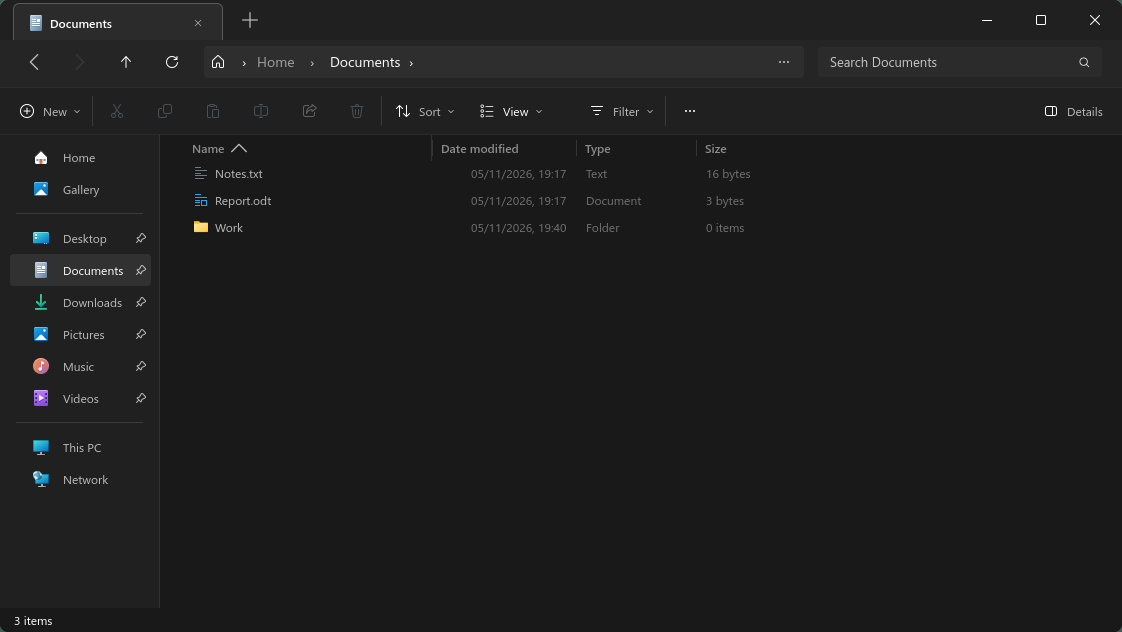
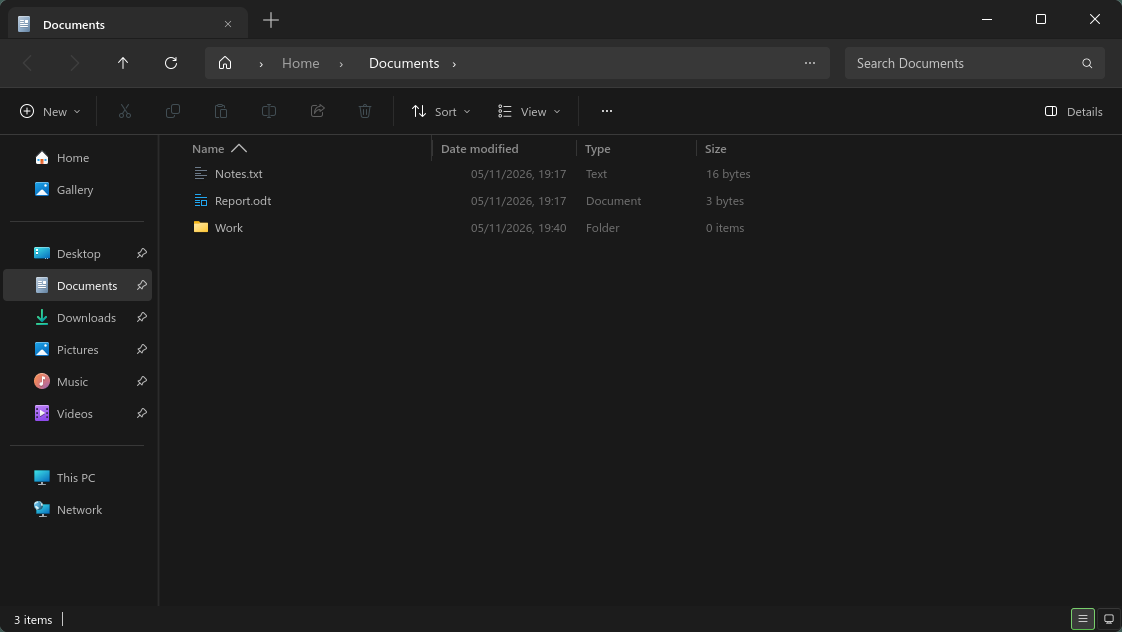
Explorer pixel pass vs Windows 11 25H2: title bar 38px, 240px tabs, #2c2c2c nav row with #383838 address/search, #191919 command bar/sidebar, splitter, sidebar rows/separators, status bar with view toggles; Filter only on Home; grey commands on special pages

diff --git a/desktop/skel/.config/gtk-4.0/gtk.css b/desktop/skel/.config/gtk-4.0/gtk.css
@@ -370,7 +370,7 @@ window.win11-explorer, window.win11-explorer label { font-family: "Segoe UI Vari
 .win11-explorer .fenestra-section-header:checked { background: transparent; }
 .win11-explorer .fenestra-page .fenestra-section-title { font-size: 14px; font-weight: 600; }
 .win11-explorer .fenestra-quick-grid { margin: 2px 0 0 80px; padding: 0; }
-.win11-explorer .fenestra-quick-grid > flowboxchild { padding: 0; min-width: 284px; max-width: 284px; border-radius: 4px; }
+.win11-explorer .fenestra-quick-grid > flowboxchild { padding: 0; min-width: 284px; border-radius: 4px; }
 .win11-explorer .fenestra-quick-grid > flowboxchild:hover { background: #2d2d2d; }
 .win11-explorer .fenestra-quick-grid > flowboxchild:selected { background: #383838; }
 .win11-explorer .fenestra-quick-tile { min-height: 60px; padding: 0 12px; }
@@ -460,6 +460,49 @@ popover.fenestra-winmenu separator.fenestra-winmenu-sep { min-height: 1px; backg
 .win11-explorer .fenestra-infopane-facts label { font-size: 12px; color: #ffffff; }
 .win11-explorer .fenestra-infopane-facts label.fenestra-infopane-key { color: #c5c5c5; }
 .win11-explorer .fenestra-infopane-message, .win11-explorer .fenestra-infopane-text { font-size: 12px; color: #c5c5c5; }
+/* Pixel pass vs Windows 11 25H2 (100%, dark): measured from ex-documents/explorer-2/ex-thispc. */
+.win11-explorer .win11-titlebar { min-height: 38px; padding-left: 3px; }
+.win11-explorer .win11-titlebar windowcontrols > button { min-height: 30px; }
+.win11-explorer .win11-tabs tab, .win11-explorer .win11-tabs tab:hover { border: 0; box-shadow: none; border-radius: 8px 8px 0 0; background-color: transparent; min-height: 31px; margin-top: 7px; padding: 0 6px 0 4px; }
+.win11-explorer .win11-tabs tab box, .win11-explorer .win11-tabs .tab-title { min-height: 0; padding-top: 0; padding-bottom: 0; margin-top: 0; margin-bottom: 0; }
+.win11-explorer .win11-tabs, .win11-explorer .win11-tabs tabbox { min-height: 0; padding-top: 0; padding-bottom: 0; }
+.win11-explorer .win11-tabs tab:hover { background-color: #2d2d2d; }
+.win11-explorer .win11-tabs tab:selected, .win11-explorer .win11-tabs tab:checked { background-color: #2c2c2c; border: 0; }
+.win11-explorer .win11-titlebar .win11-new-tab { margin: 2px 8px 0 4px; }
+.win11-explorer .win11-navigation { min-height: 47px; padding: 2px 5px 2px 1px; background: #2c2c2c; border-top: 1px solid #1d1d1d; border-bottom: 1px solid #3a3a3a; box-shadow: none; }
+.win11-explorer .win11-navigation > button, .win11-explorer .win11-navigation .history-controls button, .win11-explorer .win11-navigation box.start button { margin: 0 2px 0 0; }
+.win11-explorer .fenestra-crumbs, .win11-explorer .win11-navigation box.linked.fenestra-crumbs, .win11-explorer .win11-navigation .win11-search { min-height: 32px; background: #383838; background-image: none; border-radius: 4px; }
+.win11-explorer #NautilusPathBar { background-color: #383838; border-radius: 4px; }
+.win11-explorer #NautilusPathBar > scrolledwindow undershoot.left, .win11-explorer #NautilusPathBar > scrolledwindow undershoot.right { background: none; border: 0; }
+.win11-explorer .fenestra-crumbs scrolledwindow, .win11-explorer .fenestra-crumbs viewport, .win11-explorer .fenestra-crumbs button, .win11-explorer .fenestra-crumbs menubutton > button { background: transparent; box-shadow: none; }
+.win11-explorer .win11-navigation .win11-search { margin-left: 9px; padding: 0 12px; }
+.win11-explorer .win11-commandbar { background: #191919; border-bottom: 1px solid #3a3a3a; }
+.win11-explorer .sidebar-pane, .win11-explorer placessidebar, .win11-explorer .navigation-sidebar, .win11-explorer placessidebar list { background: #191919; }
+.win11-explorer .navigation-sidebar { border-right: 0; padding-left: 0; padding-right: 0; }
+.win11-explorer .sidebar-pane { min-width: 160px; }
+.win11-explorer placessidebar { border-right: 1px solid #202020; }
+.win11-explorer placessidebar > scrolledwindow { border-right: 1px solid #2b2b2b; }
+.win11-explorer placessidebar .navigation-sidebar { border-right: 1px solid #202020; }
+.win11-explorer placessidebar row, .win11-explorer .navigation-sidebar row { margin: 0 5px 0 3px; padding-left: 24px; }
+.win11-explorer placessidebar row:selected, .win11-explorer .navigation-sidebar row:selected { background: #333333; }
+.win11-explorer placessidebar row:hover, .win11-explorer .navigation-sidebar row:hover { background: #2d2d2d; }
+.win11-explorer placessidebar row:selected:hover, .win11-explorer .navigation-sidebar row:selected:hover { background: #3d3d3d; }
+.win11-explorer placessidebar row image, .win11-explorer .navigation-sidebar row image { margin-right: 0; }
+.win11-explorer .navigation-sidebar row image.sidebarrow-icon { -gtk-icon-size: 16px; min-width: 16px; padding: 0; margin: 0 1px 0 1px; }
+.win11-explorer .navigation-sidebar separator.fenestra-sidebar-sep { margin: 16px 13px 15px 10px; background: #383838; }
+.win11-explorer label.win11-status, .win11-explorer .fenestra-statusbar { background: #1c1c1c; }
+.win11-explorer .fenestra-statusbar separator { min-width: 1px; margin: 6px 0; background: #c5c5c5; }
+.win11-explorer .fenestra-statusbar button { min-width: 22px; min-height: 20px; padding: 0; margin: 2px 1px; border-radius: 3px; background: transparent; box-shadow: none; }
+.win11-explorer .fenestra-statusbar button:checked { background: #3a3a3a; }
+.win11-explorer .win11-commandbar separator.win11-cmd-separator { margin: 8px 4px; background: #2c2c2c; }
+.win11-explorer .fenestra-crumbs .fenestra-crumb-sep { margin: 0 10px; }
+.win11-explorer .fenestra-crumbs .fenestra-crumb-lead { margin: 0 12px 0 20px; }
+.win11-explorer .fenestra-crumbs button { padding-left: 12px; }
+.win11-explorer .fenestra-statusbar { padding-left: 0; }
+.win11-explorer .fenestra-statusbar label.win11-status { padding-right: 9px; }
+.win11-explorer .fenestra-group-header { margin-top: 4px; }
+.win11-explorer .fenestra-drives > flowboxchild { padding-left: 11px; }
+.win11-explorer .win11-tabs tab .tab-title { margin-left: 5px; }
 /* Light mode: the white Fluent glyphs used on these pages are inverted like the command bar's. */
 @media (prefers-color-scheme: light) {
   .win11-explorer .fenestra-section-header image, .win11-explorer .fenestra-section-chevron image,
@@ -566,6 +609,20 @@ window.background.csd headerbar.header-bar.titlebar windowcontrols button.titleb
   .win11-explorer .fenestra-infopane-facts label { color: #1a1a1a; }
   .win11-explorer .fenestra-infopane-facts label.fenestra-infopane-key { color: #5f5f5f; }
   .win11-explorer .fenestra-infopane-message, .win11-explorer .fenestra-infopane-text { color: #5f5f5f; }
+  .win11-explorer .win11-tabs tab:hover { background-color: #f0f0f0; }
+  .win11-explorer .win11-navigation { border-bottom: 1px solid #e5e5e5; }
+  .win11-explorer .fenestra-crumbs, .win11-explorer .win11-navigation box.linked.fenestra-crumbs, .win11-explorer .win11-navigation .win11-search { background: #e5e5e5; }
+  .win11-explorer #NautilusPathBar { background-color: #e5e5e5; }
+  .win11-explorer .win11-commandbar { background: #ffffff; border-bottom: 1px solid #e5e5e5; }
+  .win11-explorer .sidebar-pane, .win11-explorer placessidebar, .win11-explorer .navigation-sidebar, .win11-explorer placessidebar list { background: #ffffff; }
+  .win11-explorer placessidebar { border-right: 1px solid #e5e5e5; }
+  .win11-explorer placessidebar > scrolledwindow { border-right: 1px solid #e5e5e5; }
+  .win11-explorer placessidebar .navigation-sidebar { border-right: 1px solid #e5e5e5; }
+  .win11-explorer placessidebar row:selected, .win11-explorer .navigation-sidebar row:selected { background: #e5e5e5; }
+  .win11-explorer placessidebar row:hover, .win11-explorer .navigation-sidebar row:hover { background: #f0f0f0; }
+  .win11-explorer .navigation-sidebar separator.fenestra-sidebar-sep { background: #e5e5e5; }
+  .win11-explorer .fenestra-statusbar separator { background: #5f5f5f; }
+  .win11-explorer .fenestra-statusbar button:checked { background: #e5e5e5; }
   .win11-explorer .win11-commandbar image, .win11-explorer .win11-navigation image, .win11-explorer image.fenestra-pin, .win11-explorer .win11-cmd-chevron { -gtk-icon-filter: invert(0.9); }
 }
 /* ---- end Fenestra light mode ---- */

diff --git a/desktop/nautilus/python/fenestra_views.py b/desktop/nautilus/python/fenestra_views.py
@@ -62,7 +62,7 @@ class FenestraViews:
         window.connect('notify::active-slot',lambda *_:self.queue())
         window.connect('destroy',self.destroy)
         if self.compact:window.add_css_class('win11-compact')
-        self._width=0
+        self._width=0;self._tick_n=0
         self.menus=CommandMenus(self)
         window.add_tick_callback(self._tick)
         self.queue()
@@ -71,15 +71,30 @@ class FenestraViews:
         if self.window is None:return False
         width=window.get_width()
         if width and width!=self._width:
-            self._width=width;self._responsive(width)
+            self._width=width;self._tick_n=0;self._responsive(width)
+        elif width and self._tick_n<20:
+            # The address bar request depends on its own x; settle it over a few frames.
+            self._tick_n+=1;self._responsive(width)
         return True
 
     def _responsive(self,width):
+        # Address bar takes all the width left of the search box (Windows), not a centred title.
+        # GtkCenterBox only gives the title its natural width, so request the width
+        # Windows gives the address bar (window - nav buttons - search - gaps). The
+        # request trails the window width, so the window can still be made narrower.
+        path=next((w for w in walk(self.window) if kind(w)=='NautilusPathBar'),None)
+        stack=path.get_parent() if path else None
+        if stack is not None:
+            search=max(150,min(269,int((width-560)*0.48)))
+            ok,b=stack.compute_bounds(self.window)
+            left=int(b.get_x()) if ok and b.get_x()>0 else 205
+            want=max(120,width-left-search-6-17)
+            if stack.get_size_request()[0]!=want:stack.set_size_request(want,-1)
         """Explorer shrinks the search box and folds command-bar buttons into "See more"
         instead of letting the window's minimum width grow past the screen."""
         for w in walk(self.window):
             if w.has_css_class('win11-search'):
-                w.set_size_request(max(150,min(260,int((width-560)*0.45))),-1)
+                w.set_size_request(max(150,min(269,int((width-560)*0.48))),-1)
                 break
         bar=next((a for a in walk(self.window) if a.has_css_class('win11-commandbar')),None)
         if not bar:return
@@ -93,7 +108,7 @@ class FenestraViews:
         if seps:seps[0].set_visible(not collapse)
         for c in children:
             if isinstance(c,Gtk.Actionable) and c.get_action_name()=='slot.search-visible':
-                c.set_visible(width>=700 and self.special not in ('computer','gallery'))
+                c.set_visible(width>=700 and self.special=='home')
             if isinstance(c,Gtk.Actionable) and c.get_action_name()=='view.current-directory-properties':
                 for lab in walk(c):
                     if isinstance(lab,Gtk.Label):lab.set_visible(width>=900)
@@ -176,9 +191,17 @@ class FenestraViews:
         if not bar:return
         for w in walk(bar):
             if isinstance(w,Gtk.Actionable) and w.get_action_name()=='slot.search-visible':
-                w.set_visible(special not in ('computer','gallery') and (not self._width or self._width>=700))
+                # Windows shows Filter on Home only.
+                w.set_visible(special=='home' and (not self._width or self._width>=700))
         sort=getattr(self.window,'_windows_sort_menu',None)
-        if sort:sort.set_sensitive(special!='gallery')
+        if sort:sort.set_sensitive(special not in ('gallery','home'))
+        for w in walk(bar):
+            if isinstance(w,Gtk.Actionable) and (w.get_action_name() or '') in ('view.new-folder','view.cut','view.copy','view.paste','view.rename','view.open-with-other-application','view.move-to-trash'):
+                if special is not None:
+                    w.set_sensitive(False);w._fenestra_off=True
+                elif getattr(w,'_fenestra_off',False):
+                    # Re-sync with the action's enabled state (GtkActionHelper owns sensitivity).
+                    w._fenestra_off=False;name=w.get_action_name();w.set_action_name(None);w.set_action_name(name)
         coll=getattr(self.window,'_fenestra_collection',None)
         if coll is None and special=='gallery':
             coll=Gtk.MenuButton();coll.add_css_class('win11-cmd-text');coll.add_css_class('flat')
@@ -260,9 +283,30 @@ class FenestraViews:
                     w.set_title(tr('This folder is empty.'));w.add_css_class('fenestra-empty-folder')
                     w.set_valign(Gtk.Align.START)
 
+    def _statusbar(self,label):
+        """Windows' status bar: 'N items |' on the left, Details/Large icons toggles on the right."""
+        if getattr(label,'_fenestra_bar',False):return
+        parent=label.get_parent()
+        if not isinstance(parent,Gtk.Box):return
+        label._fenestra_bar=True
+        bar=Gtk.Box();bar.add_css_class('fenestra-statusbar')
+        parent.insert_child_after(bar,label);parent.remove(label);bar.append(label)
+        label.set_hexpand(False)
+        sep=Gtk.Separator(orientation=Gtk.Orientation.VERTICAL);bar.append(sep)
+        bar.append(Gtk.Box(hexpand=True))
+        self.status_buttons={}
+        for mode,glyph in (('details','win11-view-details'),('large','win11-view-large')):
+            b=Gtk.ToggleButton();img=Gtk.Image.new_from_icon_name(glyph);img.set_pixel_size(12);b.set_child(img)
+            b.set_tooltip_text(dict(VIEWS)[mode])
+            b.connect('clicked',lambda btn,m=mode:self.select(m,remember=True) if btn.get_active() else None)
+            bar.append(b);self.status_buttons[mode]=b
+
     def _status(self,slot,special=None):
         label=next((w for w in walk(self.window) if isinstance(w,Gtk.Label) and w.has_css_class('win11-status')),None)
         if not label: return
+        self._statusbar(label)
+        for m,b in getattr(self,'status_buttons',{}).items():
+            if b.get_active()!=(self.mode==m and not special):b.set_active(self.mode==m and not special)
         loc=slot.get_property('location') if slot else None
         n=self.pages.count(special) if special else (_count_items(loc) if loc and loc.get_path() else None)
         label.set_label('' if n is None else (tr('1 item') if n==1 else tr('%d items') % n))

diff --git a/desktop/nautilus/python/fenestra-explorer.py b/desktop/nautilus/python/fenestra-explorer.py
@@ -84,12 +84,13 @@ class TabStripSizer:
         self.target = None
 
     def resize(self, animate):
-        available = max(220, self.window.get_width() - 200)
-        target = min(max(220, self.view.get_n_pages() * 220), available)
+        # Windows 11 tabs are 240px wide (+10px tab-box padding).
+        available = max(250, self.window.get_width() - 200)
+        target = min(max(250, self.view.get_n_pages() * 250), available)
         if target == self.target:
             return
         self.target = target
-        current = self.animation.get_value() if self.animation else max(220, self.bar.get_width())
+        current = self.animation.get_value() if self.animation else max(250, self.bar.get_width())
         if self.animation:
             self.animation.pause()
             self.animation = None

diff --git a/desktop/nautilus/python/fenestra_pages.py b/desktop/nautilus/python/fenestra_pages.py
@@ -316,9 +316,9 @@ class UsageBar(Gtk.DrawingArea):
     def __init__(self, fraction):
         super().__init__()
         self.fraction = fraction
-        self.set_size_request(190, 12)
+        self.set_size_request(190, 13)
         self.set_content_width(190)
-        self.set_content_height(12)
+        self.set_content_height(13)
         self.set_halign(Gtk.Align.START)
         self.set_draw_func(self._draw)
 
@@ -333,7 +333,7 @@ class UsageBar(Gtk.DrawingArea):
         if self.fraction > 0.9:
             cr.set_source_rgb(0.855, 0.149, 0.149)
         else:
-            cr.set_source_rgb(0.149, 0.627, 0.855)
+            cr.set_source_rgb(0.0, 0.439, 0.796)
         cr.rectangle(1, 1, max(0, (width - 2) * self.fraction), height - 2)
         cr.fill()
 
